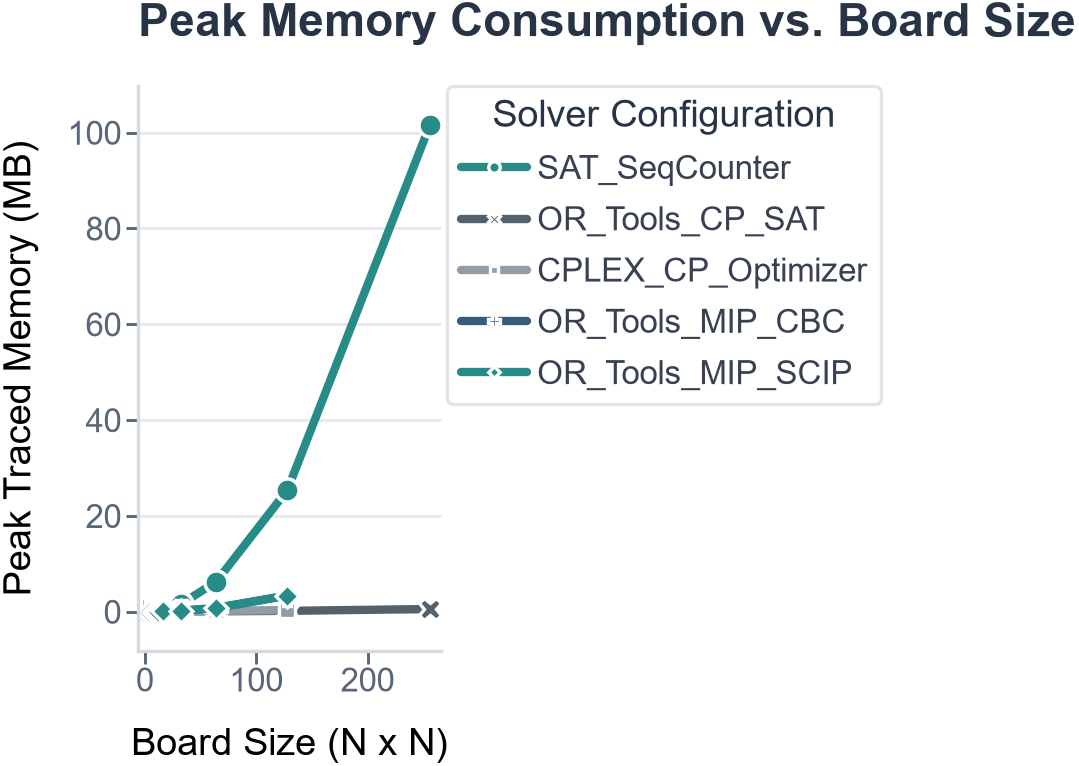
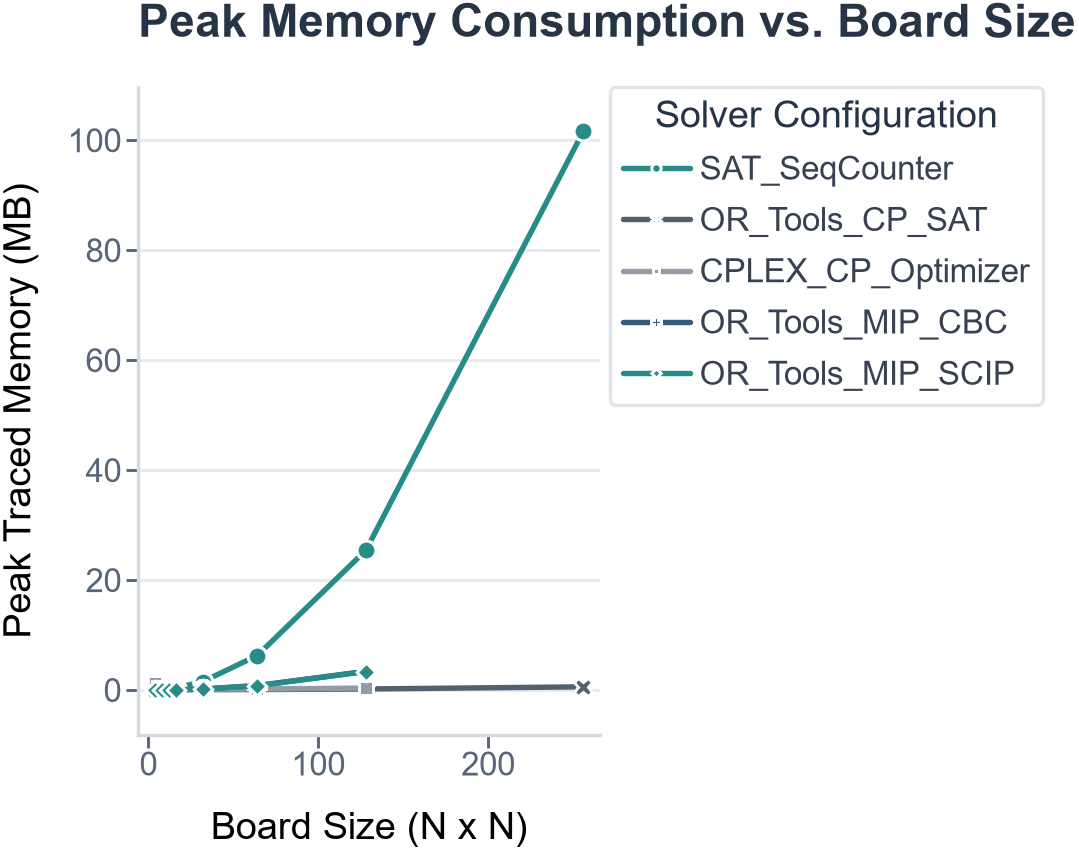
Widen canvas and make line-weights and marker sizes thinner for a more elegant, uncluttered scientific look

diff --git a/scripts/plot_results.py b/scripts/plot_results.py
@@ -270,8 +270,8 @@ def plot_line_comparison(
     else:
         plot_palette = palette
 
-    # Create CNSPlots figure
-    cns.figure(300, 200, color_cycle="ECharts")
+    # Create CNSPlots figure - Tăng kích thước canvas rộng rãi hơn để giản đều dữ liệu
+    cns.figure(350, 220, color_cycle="ECharts")
     ax = plt.gca()
     
     # Ép buộc đồng bộ màu trắng đặc 100% cho hình vẽ và khung trục tọa độ
@@ -289,10 +289,10 @@ def plot_line_comparison(
         palette=plot_palette,
         markers=True,
         dashes=False,
-        linewidth=2.0,
-        markersize=5.5,
+        linewidth=1.3,      # Đường vẽ mỏng tinh tế, thanh thoát tránh cảm giác díu mắt
+        markersize=4.5,     # Kích thước điểm đánh dấu gọn gàng, sắc nét
         markeredgecolor="#FFFFFF",
-        markeredgewidth=0.8,
+        markeredgewidth=0.7,
         estimator=None,
         errorbar=None,
         sort=True,
